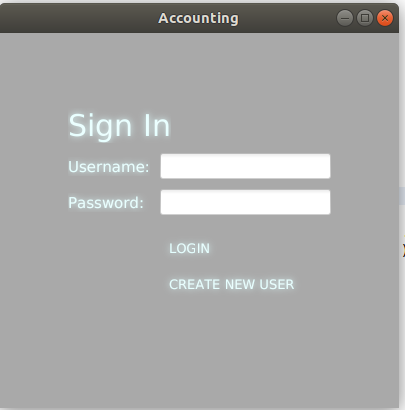
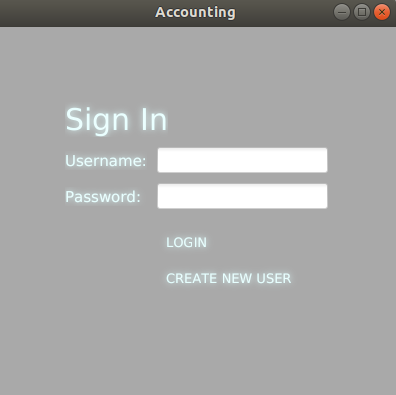
kirjautumisnakyma koko pienemmäksi

diff --git a/dokumentaatio/kayttoohje.md b/dokumentaatio/kayttoohje.md
@@ -12,7 +12,7 @@ Ohjelma käynnistetään komennolla
 
 Sovelluksesta aukeaa ensimmäisenä kirjautumisnäkymä:
 
-<img src="https://github.com/prinsessv/ot-harjoitustyo/blob/master/dokumentaatio/kuvat/Kirjautuminen.png" width="700">
+<img src="https://github.com/prinsessv/ot-harjoitustyo/blob/master/dokumentaatio/kuvat/Kirjautuminen.png" width="500">
 
 Kirjautuminen onnistuu syöttämällä luotu käyttäjatunnus ja sen salasana syöttökenttiin ja painamalla login. 
 
